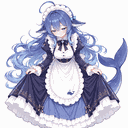
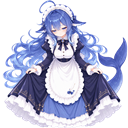
fix: use transparent plugin artwork

diff --git a/README.md b/README.md
@@ -4,7 +4,7 @@
 
 **设计逻辑源自 [Chat Agent Harness（CAH）](https://github.com/Tests4gptplay/chat-agent-harness)。** DeepSeek Servant 延续 CAH 以目标为中心的 Agent 工作闭环：理解需求、制定计划、执行工作、评价成果、调整方法、跨会话接续、故障恢复与技能积累。Servant 将这套持续工作机制整合到 DeepSeek Harness 运行环境，复用宿主的模型、工具、Session、作业与 Skill 能力。
 
-**当前版本：** `0.1.0-alpha.10` · **适配宿主：** DSH `0.2.1-rc.2` · **项目形态：** 独立安装的社区插件
+**当前版本：** `0.1.0-alpha.11` · **适配宿主：** DSH `0.2.1-rc.2` · **项目形态：** 独立安装的社区插件
 
 ## 核心能力
 
@@ -50,7 +50,7 @@ npm pack --ignore-scripts
 将生成的插件包安装到指定 DSH profile：
 
 ```sh
-dsh plugin --profile <profile> add ./deepseek-servant-0.1.0-alpha.10.tgz --ignore-scripts
+dsh plugin --profile <profile> add ./deepseek-servant-0.1.0-alpha.11.tgz --ignore-scripts
 ```
 
 建议先选择独立的 DSH profile 验证。模型提供者、工具权限与凭据使用宿主已有配置。
